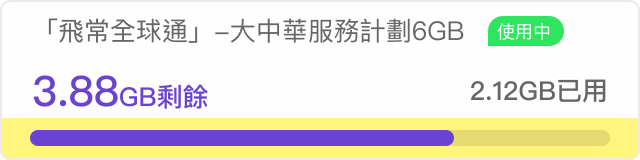
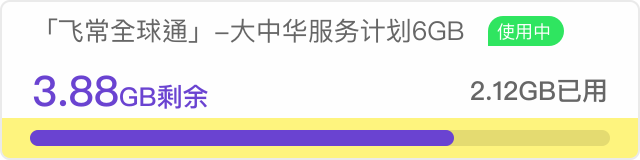
三语言

Changed region(s): [[0.4375, 0.125, 0.6562, 0.2812], [0.2812, 0.5312, 0.3438, 0.6875], [0.0938, 0.125, 0.1562, 0.2812]]

diff --git a/src/assets/i18n/en.js b/src/assets/i18n/en.js
@@ -53,7 +53,7 @@ module.exports = {
     '题目': 'Which one of the following data displays would you prefer?(Single Choice)*',
     '选项1题目': 'Display data remaining',
     '选项2题目': 'Display data usage',
-    '选项1': require('../../../static/img/zh/q-one-1.png'),
-    '选项2': require('../../../static/img/zh/q-one-2.png'),
+    '选项1': require('../../../static/img/en/q-one-1.png'),
+    '选项2': require('../../../static/img/en/q-one-2.png'),
   }
 };

diff --git a/src/assets/i18n/tw.js b/src/assets/i18n/tw.js
@@ -53,7 +53,7 @@ module.exports = {
     '题目': '以下哪款數據用量顯示方式您認為更清晰？（單選）*',
     '选项1题目': '顯示剩餘用量',
     '选项2题目': '顯示已使用用量',
-    '选项1': require('../../../static/img/zh/q-one-1.png'),
-    '选项2': require('../../../static/img/zh/q-one-2.png'),
+    '选项1': require('../../../static/img/tw/q-one-1.png'),
+    '选项2': require('../../../static/img/tw/q-one-2.png'),
   }
 };
